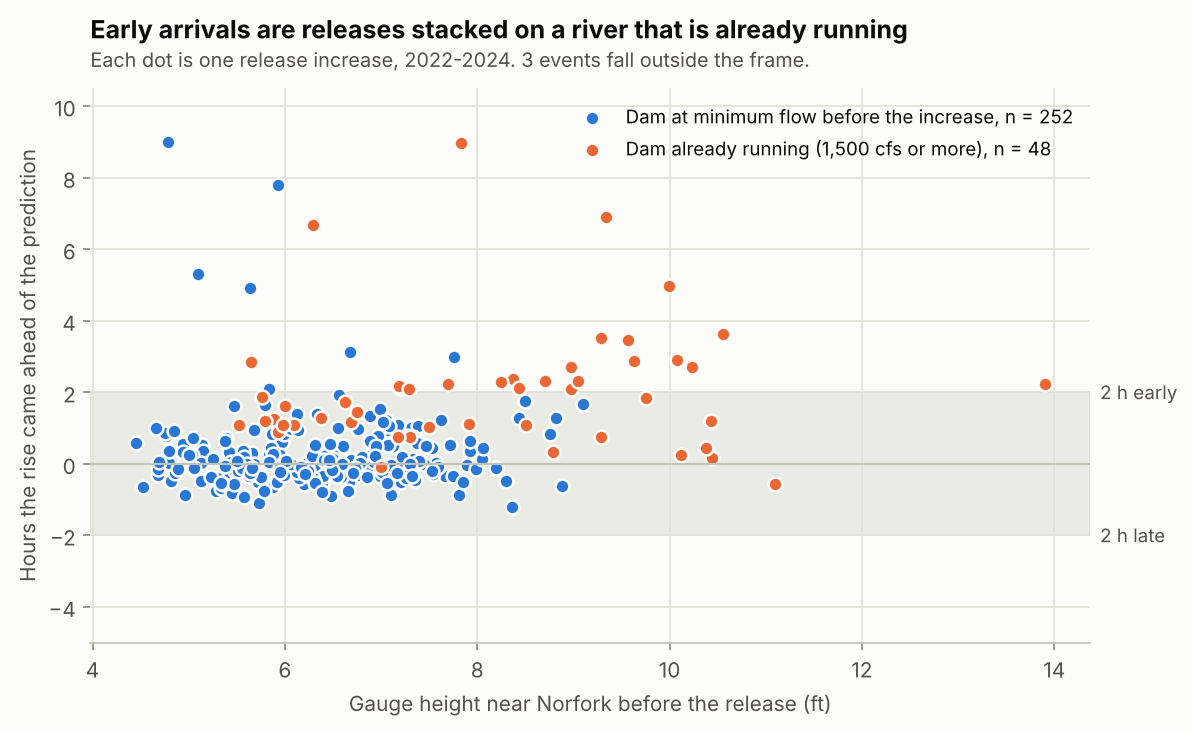
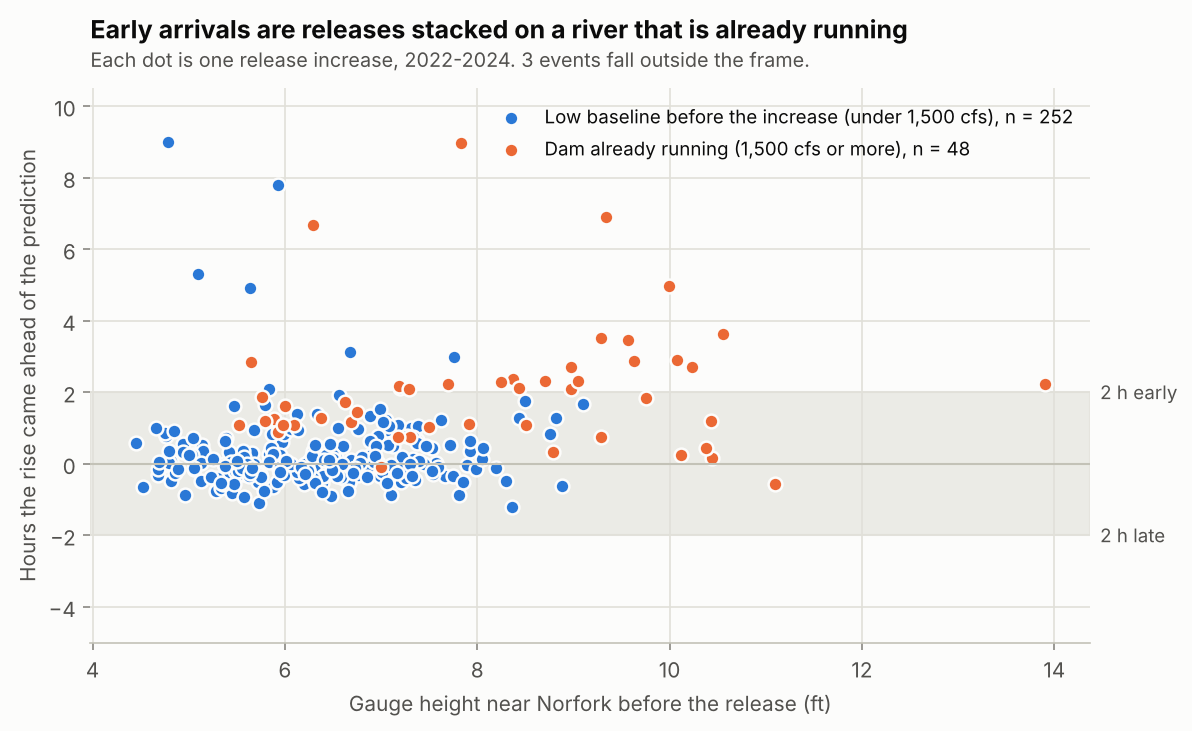
Correct study 3's claims after review
The conditional estimate is promising, not established: the gate was chosen
after scoring and three of its inputs look past the moment a release starts.
A gate rebuilt from readings before the release still admits a flash-flood
day nine hours early. Also: low baseline instead of minimum flow, the
eight-hour median attributed to the right group, availability against all
detected increases, and stepped-release convergence stated as a hypothesis.

Pins dependency versions and adds checksums for the data snapshots.

Claude-Session: https://claude.ai/code/session_01HZotX8RLBTNhHzk9N6xNba

Changed region(s): [[0.4656, 0.1505, 0.9002, 0.2408], [0.4035, 0.1505, 0.4346, 0.2107]]

diff --git a/missouri-float-planner/scripts/research/bull-shoals-lag-2026-11/explore_conditions.py b/missouri-float-planner/scripts/research/bull-shoals-lag-2026-11/explore_conditions.py
@@ -40,15 +40,47 @@ def main():
         "gauge under 7 ft, tributaries steady, under 0.5 in rain": low & steady & dry,
         "gauge under 7 ft, tributaries moving": low & ~steady,
         "gauge 7 ft or higher": ~low,
-        "dam at minimum flow before the increase (under 1,500 cfs)": from_minimum,
-        "dam at minimum flow, tributaries steady, gauge under 7 ft": from_minimum & steady & low,
+        "low baseline before the increase (under 1,500 cfs)": from_minimum,
+        "low baseline, tributaries steady (hindsight label), gauge under 7 ft": from_minimum & steady & low,
         "dam already running (1,500 cfs or more)": ~from_minimum,
         "dam already running 3,000 cfs or more": t["baseline"] >= 3000,
     }
     out = {"note": "Post hoc cuts of the untouched-test events with the frozen conditions model. Not validated rules.",
            "cuts": {name: {**c.score(error[rows]), "median_delay_h": float(t.loc[rows, "delay_h"].median())}
                     for name, rows in cuts.items()}}
+    # The "tributaries steady" label looks 24 hours past the release. This version
+    # uses only the 12 hours before it, which is what could be known at the time.
+    data = c.load(HERE / "data_conditions" / "test")
+    hour = pd.Timedelta(hours=1)
+
+    def before(start):
+        total = 0.0
+        for column in ("buffalo_cfs", "crooked_cfs"):
+            part = data["flows"][column].loc[start - 12 * hour:start - hour].dropna()
+            if len(part) < 6:
+                return np.nan
+            total += part.max() - part.min()
+        return total
+
+    prior = np.array([before(h) for h in pd.to_datetime(t["hour"])])
+    known_then = from_minimum & low & (prior <= 500)
+    out["gate_using_only_readings_before_the_release"] = {
+        **c.score(error[known_then]), "events": int(known_then.sum()),
+        "share_of_all_detected_starts": float(known_then.sum() / len(pd.read_csv(OUT / "events_test.csv"))),
+        "admitted_that_the_hindsight_label_excluded": int((known_then & ~(from_minimum & steady & low)).sum())}
+    events = pd.read_csv(OUT / "events_test.csv")
+    out["availability"] = {"detected_starts": int(len(events)), "scored_not_stepped": int(len(t)),
+                           "hindsight_normal_group": int((from_minimum & steady & low).sum()),
+                           "share_of_detected_starts": float((from_minimum & steady & low).sum() / len(events))}
+    out["median_delay_h_by_baseline"] = {"under 1,500 cfs": float(t.loc[from_minimum, "delay_h"].median()),
+                                         "1,500 cfs or more": float(t.loc[~from_minimum, "delay_h"].median()),
+                                         "3,000 cfs or more": float(t.loc[t["baseline"] >= 3000, "delay_h"].median())}
+    stepped = events[events["scored"] & events["stepped"] & events[["stage0", "gauge_cfs0", "tributary_cfs"]].notna().all(axis=1)]
+    gap = stepped["surge_delay_h"] - stepped["delay_h"]
+    out["stepped_measure_check"] = {"events": int(len(stepped)), "steepest_rise_before_first_rise": int((gap < 0).sum()),
+                                    "by_more_than_5h": int((gap < -5).sum()), "by_more_than_12h": int((gap < -12).sum())}
     (OUT / "exploratory.json").write_text(json.dumps(clean(out), indent=1) + "\n")
+    print(json.dumps(clean({k: out[k] for k in out if k not in ("cuts", "note")}), indent=1))
     for name, value in out["cuts"].items():
         print(f"{name:62s} n={value['n']:3d} within={value['share_within_2h']:.3f} early={value['share_more_than_2h_early']:.3f}")
 
@@ -83,7 +115,7 @@ def main():
 
     fig, ax = plt.subplots(figsize=(8.6, 4.8))
     shown = t[t["stage0"] <= 14]
-    for rows, colour, label in ((shown["baseline"] < 1500, mf.BLUE, "Dam at minimum flow before the increase"),
+    for rows, colour, label in ((shown["baseline"] < 1500, mf.BLUE, "Low baseline before the increase (under 1,500 cfs)"),
                                 (shown["baseline"] >= 1500, mf.ORANGE, "Dam already running (1,500 cfs or more)")):
         part = shown[rows]
         ax.scatter(part["stage0"], part["error_conditions"], s=44, color=colour, edgecolor=mf.SURFACE,

diff --git a/missouri-float-planner/scripts/research/bull-shoals-lag-2026-11/STUDY3.md b/missouri-float-planner/scripts/research/bull-shoals-lag-2026-11/STUDY3.md
@@ -13,7 +13,9 @@ and only then were 2022-2024 downloaded and scored, once.
 
 ## Result
 
-**The blanket estimate does not hold. A conditional one does.**
+**The blanket estimate does not hold. A conditional one looks promising, and
+its live form is not yet tested.** The firmest result is knowing when an
+estimate becomes unreliable.
 
 | Pre-set pass mark, 302 release increases in 2022-2024 | Needed | Got |
 | --- | ---: | ---: |
@@ -72,18 +74,44 @@ and are not validated rules.
 
 | Cut | Events | Within 2 h | More than 2 h early |
 | --- | ---: | ---: | ---: |
-| Dam at minimum flow before the increase | 254 | 96% | 3% |
-| Dam already running 1,500 cfs or more | 48 | 54% | 46% |
-| Dam already running 3,000 cfs or more | 20 | 10% | 90% |
+| Low baseline before the increase (under 1,500 cfs) | 254 | 96% | 3% |
+| Baseline 1,500 cfs or more | 48 | 54% | 46% |
+| Baseline 3,000 cfs or more | 20 | 10% | 90% |
 | Gauge under 7 ft, tributaries steady | 189 | 98% | 2% |
 | Same, and under 0.5 inch of rain | 138 | 99% | 1% |
 | Gauge under 7 ft, tributaries moving | 14 | 71% | 29% |
 
-The sharpest split is whether the dam was already generating. An increase
-stacked on a running river reached the gauge in about 8 hours, where the same
-increase from minimum flow takes about 13. About six in ten scored releases
-met the "normal" conditions: dam at minimum flow, gauge under 7 ft, tributaries
-steady.
+The sharpest split is the release level just before the increase. Median
+delay was 13.25 hours from a low baseline, 10.4 hours from 1,500 cfs or more,
+and 8.25 hours from 3,000 cfs or more. The 1,500 cfs line is a research
+cutoff, not Eddy's minimum-flow definition, which is 850 cfs at this dam.
+
+The "normal" group (low baseline, gauge under 7 ft, tributaries steady) is
+177 events: 59% of the 302 scored, and 41% of all 432 detected release
+increases. It still contains arrivals 7.8 and 5.3 hours early.
+
+## The gate as tested uses information from after the release
+
+Three inputs look ahead, so having the gauges live does not make this filter
+available live:
+
+- **"Tributaries steady"** covers the 24 hours after the release starts.
+- **Rain** includes the following day.
+- **Peak release** is the highest of the first three hours.
+
+Rebuilding the gate from tributary readings in the 12 hours **before** the
+release (post hoc) gives 185 events, 97% within 2 hours and 3% more than 2
+hours early, with a worst case 9.0 hours early. That worst case is
+2024-11-04: tributaries were quiet when the release began, then five inches
+of rain sent Crooked Creek past 100,000 cfs and the gauge rose 12 ft. The
+other large early arrivals in this group look the same on their hydrographs:
+rain fell during the 13 hours the release was travelling, and on 2022-11-04
+the release's own sharp rise then arrived on time. On 2023-08-09 the release
+was also still climbing after its third hour, so the peak was understated.
+
+So no rule fixed at the moment a release starts can catch these. A live
+estimate has to keep checking until the water arrives, and it has to be clear
+that it predicts the release arriving, not every reason the river might rise.
 
 ## Stepped releases: a small bump, then the main increase
 
@@ -97,33 +125,41 @@ first in the previous 20 hours. These were scored separately.
 | First rise against a no-bump prediction | 1.6 h earlier | 1.6 h earlier |
 | Steepest rise against expected | 0.9 h earlier | 1.4 h earlier |
 
-Brackets are the middle 80%. Two things follow:
+Brackets are the middle 80%. What this establishes is narrow:
 
-- **The gap closes on the way down.** The small bump travels slowly and the
-  main surge travels fast, so two increases 9 or 10 hours apart at the dam are
-  usually about an hour apart 41.5 miles down. Nearer the dam they would still
-  be well apart; that is not measured.
-- **Everything runs about an hour and a half early on these days,** and the
-  scatter is wide. A stepped day should be treated as lower confidence.
+- **Timing is less reliable on stepped days.** The first rise ran about an
+  hour and a half ahead of a no-bump prediction, with wide scatter.
+- **Whether the two pulses converge is a hypothesis, not a finding.** The
+  table compares a detected first rise with the steepest one-hour rise; it
+  does not follow each pulse downstream. In 6 of the 28 events from 2022-2024
+  the steepest rise came before the "first rise", twice by more than 12
+  hours, so the two marks are not reliably the bump and the main increase.
+  Smaller releases do travel slower in study 2, which makes convergence
+  plausible, but it has not been shown.
 
 ## What this supports
 
-- An estimate near Norfork in **normal conditions** (dam at minimum flow
-  before the release, gauge under 7 ft, tributaries steady) is well supported:
-  three untouched years at 94 to 98% within 2 hours by pre-set height bands.
-- Outside those conditions the estimate should not be shown as usual. The
-  river is faster, and the error is in the early direction.
-- Eddy already has every input for that gate live: the release, the gauge
-  height and the tributary gauges.
+- **River height matters, and that part was pre-set.** The height bands were
+  fixed before scoring and use only readings from before the release: 94 to
+  98% within 2 hours under 7 ft across 203 events in untouched years. The
+  5 to 6 ft band alone had 6% early arrivals (5 of 84), so not every low band
+  meets the 5% early-arrival mark on its own.
+- **Knowing when not to estimate is the firmest result.** On a high river or
+  from a raised baseline the rise comes hours sooner, and the error is in the
+  early direction.
+- **A live conditional estimate is the next thing to test, not a result.**
+  The combined gate was chosen after scoring and leans on later information.
 
 ## Limits
 
-- The gate (minimum flow, 7 ft, steady tributaries) was found after scoring.
-  The height bands behind it were pre-set, but the combined rule needs its own
-  check on new data before it is relied on.
-- 75 of 432 release increases had an ambiguous match and were left out. They
-  are the busiest days, so real-world reliability is probably lower than these
-  figures on days with several releases.
+- The gate (low baseline, 7 ft, steady tributaries) was found after scoring
+  and uses later information. It needs a version built only from readings
+  available at the time, frozen, and checked on data it has not seen.
+- 77 of 432 release increases had an ambiguous match and 13 had none; with
+  gauge gaps that left 330 scored. Ambiguity is found in hindsight, so it is
+  not a reason Eddy could have known to withhold an estimate. A proper trial
+  counts every detected start as issued and evaluated, withheld with a
+  reason, or issued with an outcome that could not be determined.
 - High-river events are few (29 above 8.5 ft), so there is not enough to build
   a separate high-water estimate yet.
 - Still one gauge, 41.5 miles down. Nothing here tests Cotter or Rim Shoals.
@@ -132,8 +168,14 @@ Brackets are the middle 80%. Two things follow:
 
 ## Deviations
 
-None. [explore_conditions.py](explore_conditions.py) and its figures were
-added after scoring and are labelled post hoc.
+None in the scored run. [explore_conditions.py](explore_conditions.py) and its
+figures were added after scoring and are labelled post hoc.
+
+Corrected after review on 2026-11-12: the headline no longer says the
+conditional estimate holds; the gate's use of later information is stated;
+"minimum flow" became "low baseline"; the 8-hour median is attributed to the
+3,000 cfs group, not the 1,500 cfs one; availability is given against all 432
+detected increases; and the stepped-release convergence is a hypothesis.
 
 ## Reproduce
 
@@ -145,5 +187,6 @@ added after scoring and are labelled post hoc.
 .venv/bin/python run_conditions.py score && .venv/bin/python explore_conditions.py
 ```
 
-Both read the committed snapshots under `data_conditions/`.
+Both read the committed snapshots under `data_conditions/`; `sha256sum -c
+SHA256SUMS` confirms the inputs are the ones used here.
 `fetch_conditions.py` downloads fresh ones from the Corps, USGS and NOAA ACIS.
